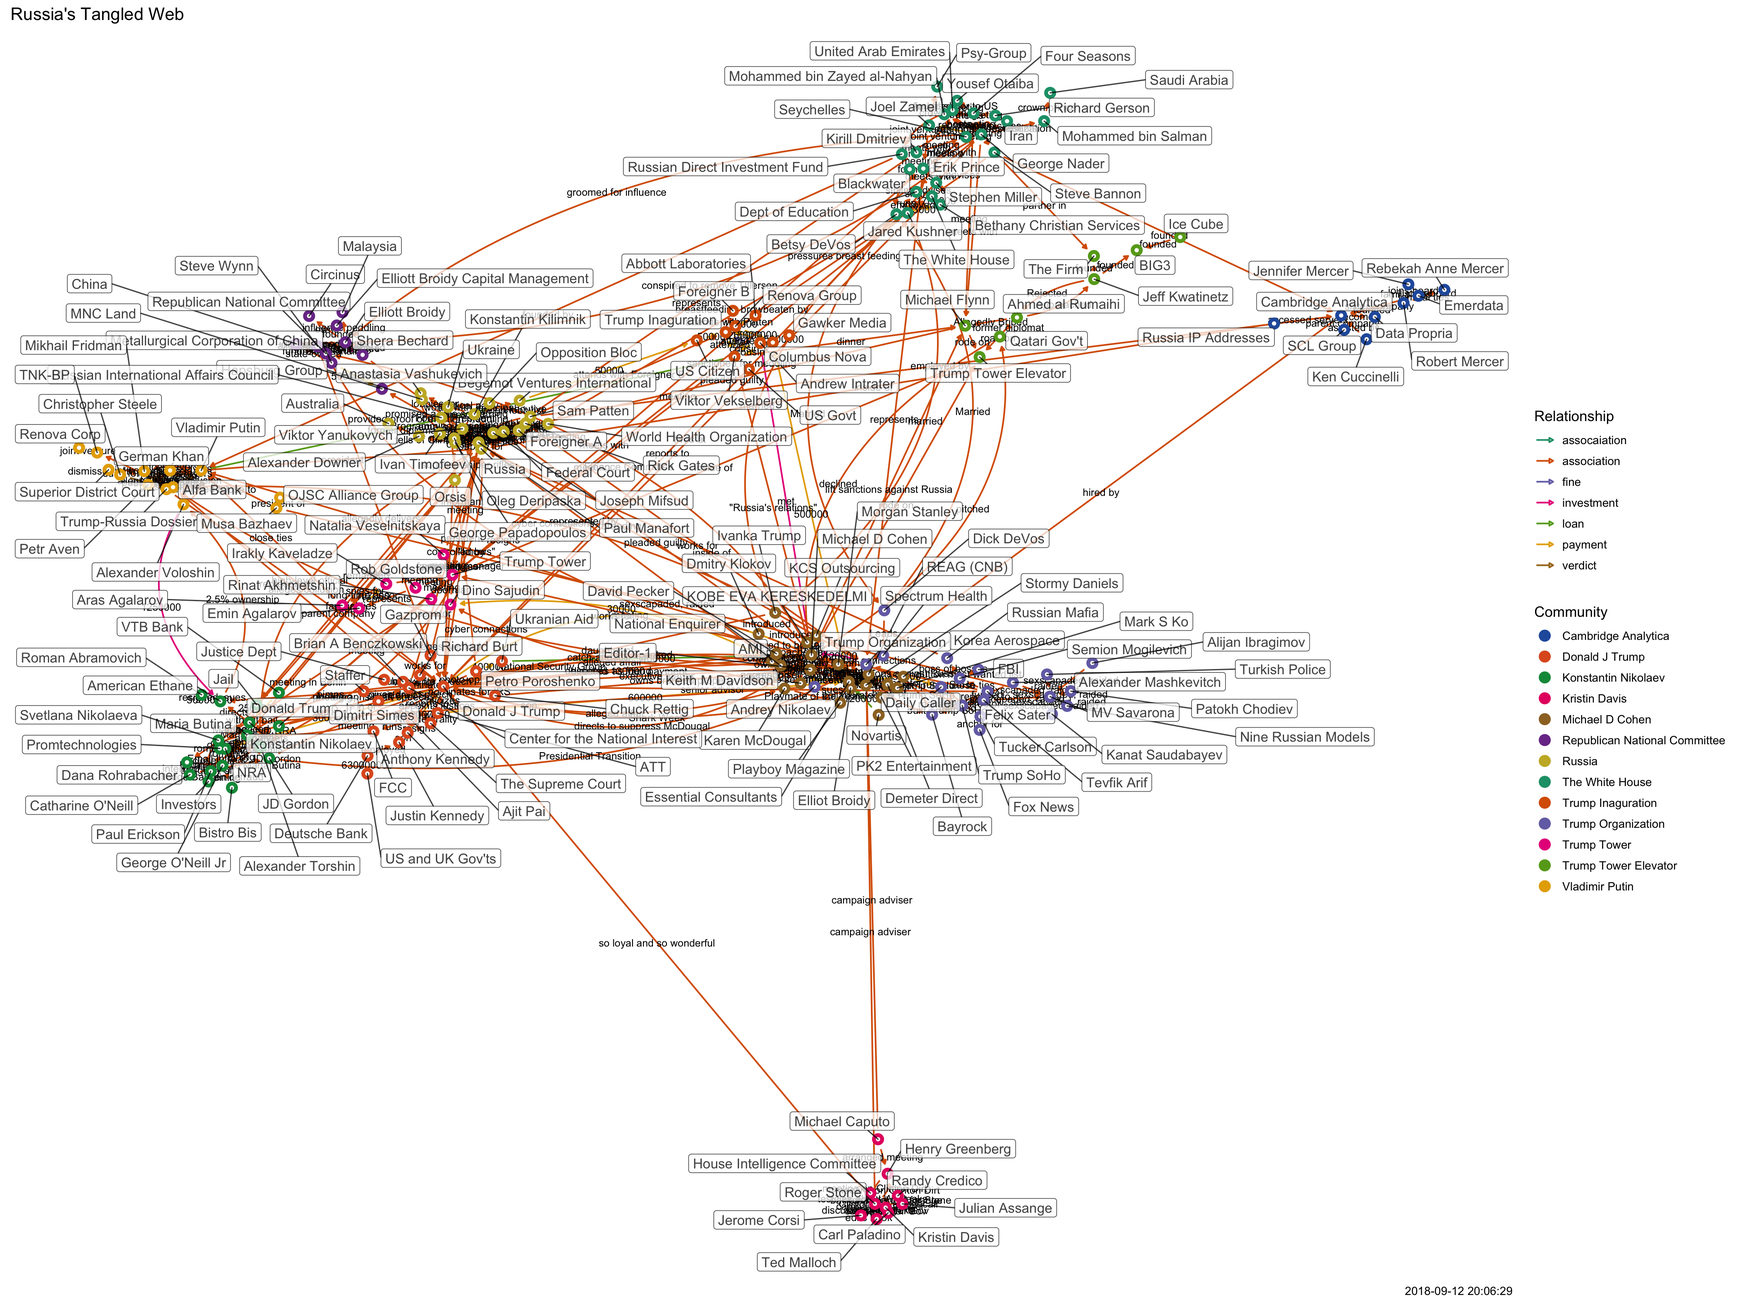
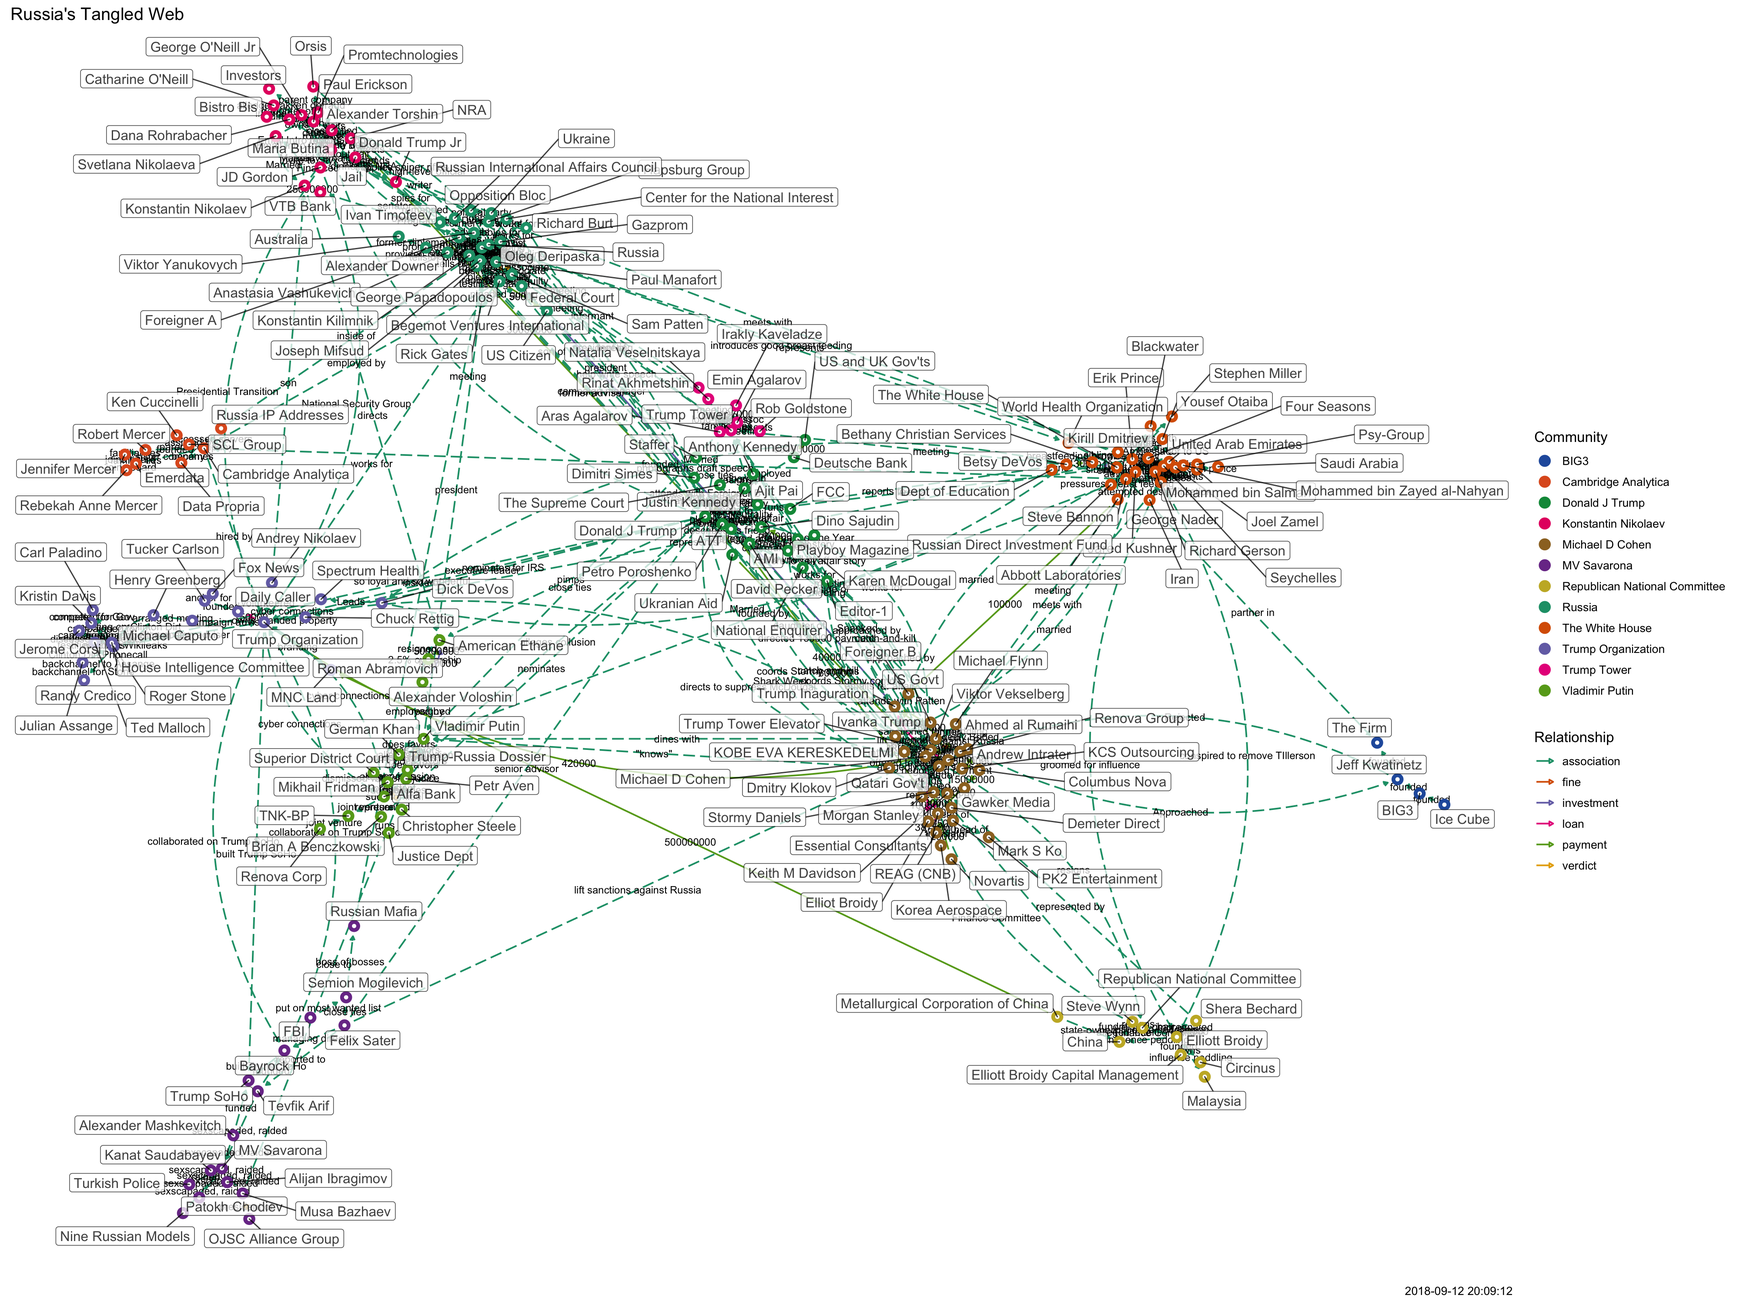
updated

diff --git a/docs/tangled-d3.html b/docs/tangled-d3.html
@@ -1143,11 +1143,11 @@ return function(){for(var n=0,e=0;e<t;++e)n+=Math.random();return n}},um=functio
 </head>
 <body style="background-color: white;">
 <div id="htmlwidget_container">
-<div id="htmlwidget-09f99bfd92fe3a0b62a8" class="forceNetwork html-widget" style="width:960px;height:500px;">
+<div id="htmlwidget-e68d1798f946ef162aab" class="forceNetwork html-widget" style="width:960px;height:500px;">
 
 </div>
 </div>
-<script type="application/json" data-for="htmlwidget-09f99bfd92fe3a0b62a8">{"x":{"links":{"source":[0,1,2,2,3,4,5,6,7,8,8,9,10,11,12,12,12,13,14,15,16,17,18,19,20,21,22,23,24,24,25,26,27,28,28,29,30,31,32,33,19,3,3,34,3,34,34,3,35,19,36,34,10,10,10,19,37,37,36,19,19,38,38,38,38,37,19,39,40,40,41,42,41,41,43,40,40,44,44,44,5,43,10,13,13,13,45,45,46,46,19,47,48,48,13,49,50,51,13,13,52,53,51,54,50,13,13,49,51,7,7,7,28,18,23,23,19,34,34,55,56,56,56,56,13,53,39,43,57,57,46,46,58,58,36,36,19,59,60,61,60,62,63,62,60,62,62,49,45,64,65,65,32,22,62,60,37,66,19,67,14,68,37,0,69,70,37,1,1,71,26,72,37,72,73,74,75,63,63,63,76,28,77,78,78,79,37,79,79,80,79,81,80,49,49,80,80,80,79,82,81,83,83,64,84,10,85,59,86,86,86,81,81,86,87,87,88,88,89,90,90,21,87,91,70,92,93,94,92,94,10,10,10,95,95,95,96,97,22,34,37,98,99,99,99,99,39,19,37,100,101,102,19,19,103,100,2,19,37,100,37,100,103,2,104,104,36,101,103,105,105,106,107,108,105,19,73,74,75,109,76,73,110,111,111,111,112,113,62,113,114,113,115,115,113,113,60,113,116,113,43,117,77,118,119,120,121,120,121,122,122,122,123,124,125,126,126,7,127,128,128,129,128,51,128,51,130,129,131,13,132,94,132,133,94,94,94,134,135,94,136,137,138,139,37,79,140,141,141,141,142,122,143,144,144,145,105,146,147,28,28,146,148,145,149,147,150,151,152,153,152,152,105,81,81,79,79,79,154,155,155,4,4,11,154],"target":[156,71,104,100,156,11,12,31,157,12,158,24,85,155,159,160,36,50,37,19,19,12,161,9,12,37,62,29,12,36,8,71,157,162,19,19,68,156,62,87,12,8,19,25,34,3,156,156,34,37,59,63,163,164,165,160,27,36,37,28,163,159,166,19,17,28,55,55,55,41,40,167,168,167,168,47,39,5,37,169,44,27,13,10,43,45,27,46,45,37,47,19,162,170,51,51,51,171,53,52,172,131,54,27,173,39,174,37,7,51,175,37,161,96,37,176,177,177,19,177,130,53,13,178,178,178,178,178,178,131,19,58,19,63,59,19,59,19,61,176,62,70,70,37,70,179,177,177,177,177,177,70,176,70,60,22,66,28,163,180,67,14,180,27,27,69,71,63,63,1,71,76,72,181,63,63,63,73,74,75,28,76,28,77,70,37,79,70,80,70,81,79,49,80,21,21,70,84,84,84,84,84,82,82,182,85,59,19,79,28,28,79,86,79,79,88,87,91,70,87,28,91,71,89,33,93,94,93,28,28,96,183,95,163,37,163,95,22,97,39,5,62,62,28,98,62,98,98,19,101,102,2,101,103,2,2,19,2,19,37,100,184,37,104,37,177,101,19,19,37,107,107,108,70,19,39,76,76,76,185,185,110,111,37,63,73,73,62,113,114,176,115,113,70,77,98,6,6,156,156,77,77,186,77,77,119,119,117,117,37,98,123,124,70,28,125,7,126,77,51,129,63,70,28,130,130,131,131,129,130,94,187,133,94,37,136,134,135,94,137,137,136,140,138,138,140,70,140,37,142,70,143,188,122,70,146,146,189,189,189,146,28,190,190,190,190,190,190,190,190,63,191,145,21,192,179,49,21,177,177,4,37,63,4,11],"colour":["red","blue","red","red","red","red","red","red","red","red","blue","red","red","red","red","red","red","red","blue","red","red","red","blue","red","red","blue","blue","red","red","red","blue","blue","red","red","red","red","blue","red","red","blue","blue","blue","blue","blue","blue","blue","blue","blue","blue","blue","blue","blue","blue","blue","blue","blue","blue","blue","blue","blue","blue","blue","blue","blue","blue","blue","blue","blue","blue","blue","blue","blue","blue","blue","blue","blue","blue","blue","blue","blue","blue","blue","blue","blue","blue","blue","blue","blue","blue","blue","blue","blue","blue","blue","blue","blue","blue","blue","blue","blue","blue","blue","blue","blue","blue","blue","blue","blue","blue","blue","blue","blue","blue","blue","blue","blue","blue","blue","blue","blue","blue","blue","blue","blue","blue","blue","blue","blue","blue","blue","blue","blue","blue","blue","blue","blue","blue","blue","blue","blue","blue","blue","blue","blue","blue","blue","blue","blue","blue","blue","blue","blue","blue","blue","blue","blue","blue","blue","blue","blue","blue","blue","blue","blue","blue","blue","blue","blue","blue","blue","blue","blue","blue","blue","blue","blue","blue","blue","blue","blue","blue","blue","blue","blue","blue","blue","blue","blue","blue","blue","blue","blue","blue","blue","blue","blue","blue","blue","blue","blue","blue","blue","blue","blue","blue","blue","blue","blue","blue","blue","blue","blue","blue","blue","blue","blue","blue","blue","blue","blue","blue","blue","blue","blue","blue","blue","blue","blue","blue","blue","blue","blue","blue","blue","blue","blue","blue","blue","blue","blue","blue","blue","blue","blue","blue","blue","blue","blue","blue","blue","blue","blue","blue","blue","blue","blue","blue","blue","blue","blue","blue","blue","blue","blue","blue","blue","blue","blue","blue","blue","blue","blue","blue","blue","blue","blue","blue","blue","blue","blue","blue","blue","blue","blue","blue","blue","blue","blue","blue","blue","blue","blue","blue","blue","blue","blue","blue","blue","blue","blue","blue","blue","blue","blue","blue","blue","blue","blue","blue","blue","blue","blue","blue","blue","blue","blue","blue","blue","blue","blue","blue","blue","blue","blue","blue","blue","blue","blue","blue","blue","blue","blue","blue","blue","blue","blue","blue","blue","blue","blue","blue","blue","blue","blue","blue","blue","blue","blue","blue","blue","blue","blue","blue","blue","blue","blue","blue","blue","blue","blue","blue","blue","blue","blue","blue","blue","blue","blue","blue","blue","blue","blue","blue","blue","blue","blue","blue","blue","blue","blue","blue","blue","blue","blue","blue"]},"nodes":{"name":["Abbott Laboratories","Alexander Voloshin","AMI","Andrew Intrater","Aras Agalarov","ATT","Begemot Ventures International","Betsy DeVos","Columbus Nova","Elliot Broidy","Elliott Broidy","Emin Agalarov","Essential Consultants","George Nader","Justin Kennedy","KCS Outsourcing","KOBE EVA KERESKEDELMI","Korea Aerospace","Metallurgical Corporation of China","Michael D Cohen","Novartis","NRA","Oleg Deripaska","Petro Poroshenko","REAG (CNB)","Renova Group","Roman Abramovich","The White House","Trump Organization","Ukranian Aid","US and UK Gov'ts","US Citizen","Viktor Yanukovych","VTB Bank","Viktor Vekselberg","US Govt","Stormy Daniels","Donald J Trump","Mark S Ko","Michael Flynn","Ahmed al Rumaihi","Jeff Kwatinetz","Ice Cube","Steve Bannon","Ajit Pai","Jared Kushner","Ivanka Trump","Qatari Gov't","Tucker Carlson","Donald Trump Jr","Joel Zamel","Erik Prince","Mohammed bin Salman","Mohammed bin Zayed al-Nahyan","Stephen Miller","Trump Tower Elevator","Richard Gerson","Yousef Otaiba","Dmitry Klokov","Keith M Davidson","Konstantin Kilimnik","Hapsburg Group","Paul Manafort","Vladimir Putin","Rinat Akhmetshin","Natalia Veselnitskaya","Chuck Rettig","Anthony Kennedy","Deutsche Bank","World Health Organization","Russia","American Ethane","Brian A Benczkowski","Mikhail Fridman","German Khan","Petr Aven","Alfa Bank","Cambridge Analytica","Russia IP Addresses","Maria Butina","Alexander Torshin","Paul Erickson","Dana Rohrabacher","Catharine O'Neill","George O'Neill Jr","Shera Bechard","JD Gordon","Konstantin Nikolaev","Svetlana Nikolaeva","Orsis","Andrey Nikolaev","Promtechnologies","Michael Caputo","Henry Greenberg","Roger Stone","Steve Wynn","China","Anastasia Vashukevich","Federal Court","Rick Gates","Karen McDougal","Editor-1","National Enquirer","David Pecker","Dino Sajudin","Felix Sater","FBI","Semion Mogilevich","Russian Mafia","Renova Corp","Christopher Steele","Trump-Russia Dossier","Superior District Court","Sam Patten","Opposition Bloc","Foreigner A","Foreigner B","Robert Mercer","SCL Group","Emerdata","Jennifer Mercer","Rebekah Anne Mercer","George Papadopoulos","Ivan Timofeev","Russian International Affairs Council","Spectrum Health","Dick DeVos","Ken Cuccinelli","Kirill Dmitriev","Russian Direct Investment Fund","Seychelles","United Arab Emirates","Jerome Corsi","Ted Malloch","Randy Credico","Julian Assange","Kristin Davis","Carl Paladino","Dimitri Simes","Staffer","Center for the National Interest","Richard Burt","Gazprom","Alexander Downer","Joseph Mifsud","Tevfik Arif","Bayrock","Alexander Mashkevitch","Turkish Police","Patokh Chodiev","Kanat Saudabayev","Alijan Ibragimov","Musa Bazhaev","Nine Russian Models","Rob Goldstone","Irakly Kaveladze","Trump Inaguration","Bethany Christian Services","Gawker Media","Demeter Direct","Morgan Stanley","MNC Land","Daily Caller","Republican National Committee","Elliott Broidy Capital Management","Circinus","PK2 Entertainment","BIG3","The Firm","FCC","Fox News","Blackwater","Saudi Arabia","Psy-Group","Iran","Dept of Education","Ukraine","Trump Tower","Four Seasons","Jail","The Supreme Court","Justice Dept","Bistro Bis","Malaysia","Playboy Magazine","TNK-BP","Data Propria","House Intelligence Committee","Australia","Trump SoHo","MV Savarona","OJSC Alliance Group","Investors"],"group":["9","7","2","9","12","5","3","1","9","2","10","12","2","1","5","2","2","2","10","2","2","6","3","5","2","9","6","1","4","5","5","9","3","6","9","9","2","5","2","13","13","13","13","1","5","1","2","13","4","6","1","1","1","1","1","13","1","1","2","2","3","3","3","7","12","12","5","5","5","3","3","6","5","7","7","7","7","11","11","6","6","6","6","6","6","10","6","6","6","3","4","6","8","8","8","10","10","3","3","3","2","2","2","2","12","4","4","4","4","7","7","7","7","3","3","3","9","11","11","11","11","11","3","3","3","4","4","11","1","1","1","1","8","8","8","8","8","8","5","5","5","5","5","3","3","4","4","4","4","4","4","4","7","4","12","12","9","1","9","2","2","10","4","10","10","10","2","13","13","5","4","1","1","1","1","1","3","12","1","6","5","5","6","10","2","7","11","8","3","4","4","7","6"]},"options":{"NodeID":"name","Group":"group","colourScale":"d3.scaleOrdinal(d3.schemeCategory20);","fontSize":20,"fontFamily":"serif","clickTextSize":50,"linkDistance":50,"linkWidth":"function(d) { return Math.sqrt(d.value); }","charge":-100,"opacity":1,"zoom":true,"legend":false,"arrows":false,"nodesize":false,"radiusCalculation":" Math.sqrt(d.nodesize)+6","bounded":false,"opacityNoHover":1,"clickAction":null}},"evals":[],"jsHooks":[]}</script>
-<script type="application/htmlwidget-sizing" data-for="htmlwidget-09f99bfd92fe3a0b62a8">{"viewer":{"width":450,"height":350,"padding":10,"fill":true},"browser":{"width":960,"height":500,"padding":10,"fill":true}}</script>
+<script type="application/json" data-for="htmlwidget-e68d1798f946ef162aab">{"x":{"links":{"source":[0,1,2,2,3,4,5,6,7,8,8,9,10,11,12,12,12,13,14,15,16,17,18,19,20,21,22,23,24,24,25,26,27,28,28,29,30,31,32,33,19,3,3,34,3,34,34,3,35,19,36,34,10,10,10,19,37,37,36,19,19,38,38,38,38,37,19,39,40,40,41,42,41,41,43,40,40,44,44,44,5,43,10,13,13,13,45,45,46,46,19,47,48,48,13,49,50,51,13,13,52,53,51,54,50,13,13,49,51,7,7,7,28,18,23,23,19,34,34,55,56,56,56,56,13,53,39,43,57,57,46,46,58,58,36,36,19,59,60,61,60,62,63,62,60,62,62,49,45,64,65,65,32,22,62,60,37,66,19,67,14,68,37,0,69,70,37,1,1,71,26,72,37,72,73,74,75,63,63,63,76,28,77,78,78,79,37,79,79,80,79,81,80,49,49,80,80,80,79,82,81,83,83,64,84,10,85,59,86,86,86,81,81,86,87,87,88,88,89,90,90,21,87,91,70,92,93,94,92,94,10,10,10,95,95,95,96,97,22,34,37,98,99,99,99,99,39,19,37,100,101,102,19,19,103,100,2,19,37,100,37,100,103,2,104,104,36,101,103,105,105,106,107,108,105,19,73,74,75,109,76,73,110,111,111,111,112,113,62,113,114,113,115,115,113,113,60,113,116,113,43,117,77,118,119,120,121,120,121,122,122,122,123,124,125,126,126,7,127,128,128,129,128,51,128,51,130,129,131,13,132,94,132,133,94,94,94,134,135,94,136,137,138,139,37,79,140,141,141,141,142,122,143,144,144,145,105,146,147,28,28,146,148,145,149,147,150,151,152,153,152,152,105,81,81,79,79,79,154,155,155,4,4,11,154],"target":[156,71,104,100,156,11,12,31,157,12,158,24,85,155,159,160,36,50,37,19,19,12,161,9,12,37,62,29,12,36,8,71,157,162,19,19,68,156,62,87,12,8,19,25,34,3,156,156,34,37,59,63,163,164,165,160,27,36,37,28,163,159,166,19,17,28,55,55,55,41,40,167,168,167,168,47,39,5,37,169,44,27,13,10,43,45,27,46,45,37,47,19,162,170,51,51,51,171,53,52,172,131,54,27,173,39,174,37,7,51,175,37,161,96,37,176,177,177,19,177,130,53,13,178,178,178,178,178,178,131,19,58,19,63,59,19,59,19,61,176,62,70,70,37,70,179,177,177,177,177,177,70,176,70,60,22,66,28,163,180,67,14,180,27,27,69,71,63,63,1,71,76,72,181,63,63,63,73,74,75,28,76,28,77,70,37,79,70,80,70,81,79,49,80,21,21,70,84,84,84,84,84,82,82,182,85,59,19,79,28,28,79,86,79,79,88,87,91,70,87,28,91,71,89,33,93,94,93,28,28,96,183,95,163,37,163,95,22,97,39,5,62,62,28,98,62,98,98,19,101,102,2,101,103,2,2,19,2,19,37,100,184,37,104,37,177,101,19,19,37,107,107,108,70,19,39,76,76,76,185,185,110,111,37,63,73,73,62,113,114,176,115,113,70,77,98,6,6,156,156,77,77,186,77,77,119,119,117,117,37,98,123,124,70,28,125,7,126,77,51,129,63,70,28,130,130,131,131,129,130,94,187,133,94,37,136,134,135,94,137,137,136,140,138,138,140,70,140,37,142,70,143,188,122,70,146,146,189,189,189,146,28,190,190,190,190,190,190,190,190,63,191,145,21,192,179,49,21,177,177,4,37,63,4,11],"colour":["red","blue","red","red","red","red","red","red","red","red","blue","red","red","red","red","red","red","red","blue","red","red","red","blue","red","red","blue","blue","red","red","red","blue","blue","red","red","red","red","blue","red","red","blue","blue","blue","blue","blue","blue","blue","blue","blue","blue","blue","blue","blue","blue","blue","blue","blue","blue","blue","blue","blue","blue","blue","blue","blue","blue","blue","blue","blue","blue","blue","blue","blue","blue","blue","blue","blue","blue","blue","blue","blue","blue","blue","blue","blue","blue","blue","blue","blue","blue","blue","blue","blue","blue","blue","blue","blue","blue","blue","blue","blue","blue","blue","blue","blue","blue","blue","blue","blue","blue","blue","blue","blue","blue","blue","blue","blue","blue","blue","blue","blue","blue","blue","blue","blue","blue","blue","blue","blue","blue","blue","blue","blue","blue","blue","blue","blue","blue","blue","blue","blue","blue","blue","blue","blue","blue","blue","blue","blue","blue","blue","blue","blue","blue","blue","blue","blue","blue","blue","blue","blue","blue","blue","blue","blue","blue","blue","blue","blue","blue","blue","blue","blue","blue","blue","blue","blue","blue","blue","blue","blue","blue","blue","blue","blue","blue","blue","blue","blue","blue","blue","blue","blue","blue","blue","blue","blue","blue","blue","blue","blue","blue","blue","blue","blue","blue","blue","blue","blue","blue","blue","blue","blue","blue","blue","blue","blue","blue","blue","blue","blue","blue","blue","blue","blue","blue","blue","blue","blue","blue","blue","blue","blue","blue","blue","blue","blue","blue","blue","blue","blue","blue","blue","blue","blue","blue","blue","blue","blue","blue","blue","blue","blue","blue","blue","blue","blue","blue","blue","blue","blue","blue","blue","blue","blue","blue","blue","blue","blue","blue","blue","blue","blue","blue","blue","blue","blue","blue","blue","blue","blue","blue","blue","blue","blue","blue","blue","blue","blue","blue","blue","blue","blue","blue","blue","blue","blue","blue","blue","blue","blue","blue","blue","blue","blue","blue","blue","blue","blue","blue","blue","blue","blue","blue","blue","blue","blue","blue","blue","blue","blue","blue","blue","blue","blue","blue","blue","blue","blue","blue","blue","blue","blue","blue","blue","blue","blue","blue","blue","blue","blue","blue","blue","blue","blue","blue","blue","blue","blue","blue","blue","blue","blue","blue","blue","blue","blue","blue","blue","blue","blue","blue","blue","blue","blue","blue","blue","blue","blue","blue","blue","blue","blue","blue","blue","blue","blue","blue","blue","blue","blue","blue","blue","blue","blue","blue"]},"nodes":{"name":["Abbott Laboratories","Alexander Voloshin","AMI","Andrew Intrater","Aras Agalarov","ATT","Begemot Ventures International","Betsy DeVos","Columbus Nova","Elliot Broidy","Elliott Broidy","Emin Agalarov","Essential Consultants","George Nader","Justin Kennedy","KCS Outsourcing","KOBE EVA KERESKEDELMI","Korea Aerospace","Metallurgical Corporation of China","Michael D Cohen","Novartis","NRA","Oleg Deripaska","Petro Poroshenko","REAG (CNB)","Renova Group","Roman Abramovich","The White House","Trump Organization","Ukranian Aid","US and UK Gov'ts","US Citizen","Viktor Yanukovych","VTB Bank","Viktor Vekselberg","US Govt","Stormy Daniels","Donald J Trump","Mark S Ko","Michael Flynn","Ahmed al Rumaihi","Jeff Kwatinetz","Ice Cube","Steve Bannon","Ajit Pai","Jared Kushner","Ivanka Trump","Qatari Gov't","Tucker Carlson","Donald Trump Jr","Joel Zamel","Erik Prince","Mohammed bin Salman","Mohammed bin Zayed al-Nahyan","Stephen Miller","Trump Tower Elevator","Richard Gerson","Yousef Otaiba","Dmitry Klokov","Keith M Davidson","Konstantin Kilimnik","Hapsburg Group","Paul Manafort","Vladimir Putin","Rinat Akhmetshin","Natalia Veselnitskaya","Chuck Rettig","Anthony Kennedy","Deutsche Bank","World Health Organization","Russia","American Ethane","Brian A Benczkowski","Mikhail Fridman","German Khan","Petr Aven","Alfa Bank","Cambridge Analytica","Russia IP Addresses","Maria Butina","Alexander Torshin","Paul Erickson","Dana Rohrabacher","Catharine O'Neill","George O'Neill Jr","Shera Bechard","JD Gordon","Konstantin Nikolaev","Svetlana Nikolaeva","Orsis","Andrey Nikolaev","Promtechnologies","Michael Caputo","Henry Greenberg","Roger Stone","Steve Wynn","China","Anastasia Vashukevich","Federal Court","Rick Gates","Karen McDougal","Editor-1","National Enquirer","David Pecker","Dino Sajudin","Felix Sater","FBI","Semion Mogilevich","Russian Mafia","Renova Corp","Christopher Steele","Trump-Russia Dossier","Superior District Court","Sam Patten","Opposition Bloc","Foreigner A","Foreigner B","Robert Mercer","SCL Group","Emerdata","Jennifer Mercer","Rebekah Anne Mercer","George Papadopoulos","Ivan Timofeev","Russian International Affairs Council","Spectrum Health","Dick DeVos","Ken Cuccinelli","Kirill Dmitriev","Russian Direct Investment Fund","Seychelles","United Arab Emirates","Jerome Corsi","Ted Malloch","Randy Credico","Julian Assange","Kristin Davis","Carl Paladino","Dimitri Simes","Staffer","Center for the National Interest","Richard Burt","Gazprom","Alexander Downer","Joseph Mifsud","Tevfik Arif","Bayrock","Alexander Mashkevitch","Turkish Police","Patokh Chodiev","Kanat Saudabayev","Alijan Ibragimov","Musa Bazhaev","Nine Russian Models","Rob Goldstone","Irakly Kaveladze","Trump Inaguration","Bethany Christian Services","Gawker Media","Demeter Direct","Morgan Stanley","MNC Land","Daily Caller","Republican National Committee","Elliott Broidy Capital Management","Circinus","PK2 Entertainment","BIG3","The Firm","FCC","Fox News","Blackwater","Saudi Arabia","Psy-Group","Iran","Dept of Education","Ukraine","Trump Tower","Four Seasons","Jail","The Supreme Court","Justice Dept","Bistro Bis","Malaysia","Playboy Magazine","TNK-BP","Data Propria","House Intelligence Committee","Australia","Trump SoHo","MV Savarona","OJSC Alliance Group","Investors"],"group":["2","8","4","1","11","4","3","2","1","1","10","11","1","2","4","1","1","1","10","1","1","6","3","4","1","1","8","2","5","4","4","3","3","6","1","1","1","4","1","1","1","12","12","2","4","2","1","1","5","6","2","2","2","2","2","1","2","2","1","1","3","3","3","8","11","11","5","4","4","2","3","8","8","8","8","8","8","9","9","6","6","6","6","6","6","10","6","6","6","6","5","6","5","5","5","10","10","3","3","3","4","4","4","4","4","7","7","7","7","8","8","8","8","3","3","3","1","9","9","9","9","9","3","3","3","5","5","9","2","2","2","2","5","5","5","5","5","5","4","4","3","3","3","3","3","7","7","7","7","7","7","7","7","7","11","11","1","2","1","1","1","5","5","10","10","10","1","12","12","4","5","2","2","2","2","2","3","11","2","6","4","8","6","10","4","8","9","5","3","7","7","7","6"]},"options":{"NodeID":"name","Group":"group","colourScale":"d3.scaleOrdinal(d3.schemeCategory20);","fontSize":20,"fontFamily":"serif","clickTextSize":50,"linkDistance":50,"linkWidth":"function(d) { return Math.sqrt(d.value); }","charge":-100,"opacity":1,"zoom":true,"legend":false,"arrows":false,"nodesize":false,"radiusCalculation":" Math.sqrt(d.nodesize)+6","bounded":false,"opacityNoHover":1,"clickAction":null}},"evals":[],"jsHooks":[]}</script>
+<script type="application/htmlwidget-sizing" data-for="htmlwidget-e68d1798f946ef162aab">{"viewer":{"width":450,"height":350,"padding":10,"fill":true},"browser":{"width":960,"height":500,"padding":10,"fill":true}}</script>
 </body>
 </html>
